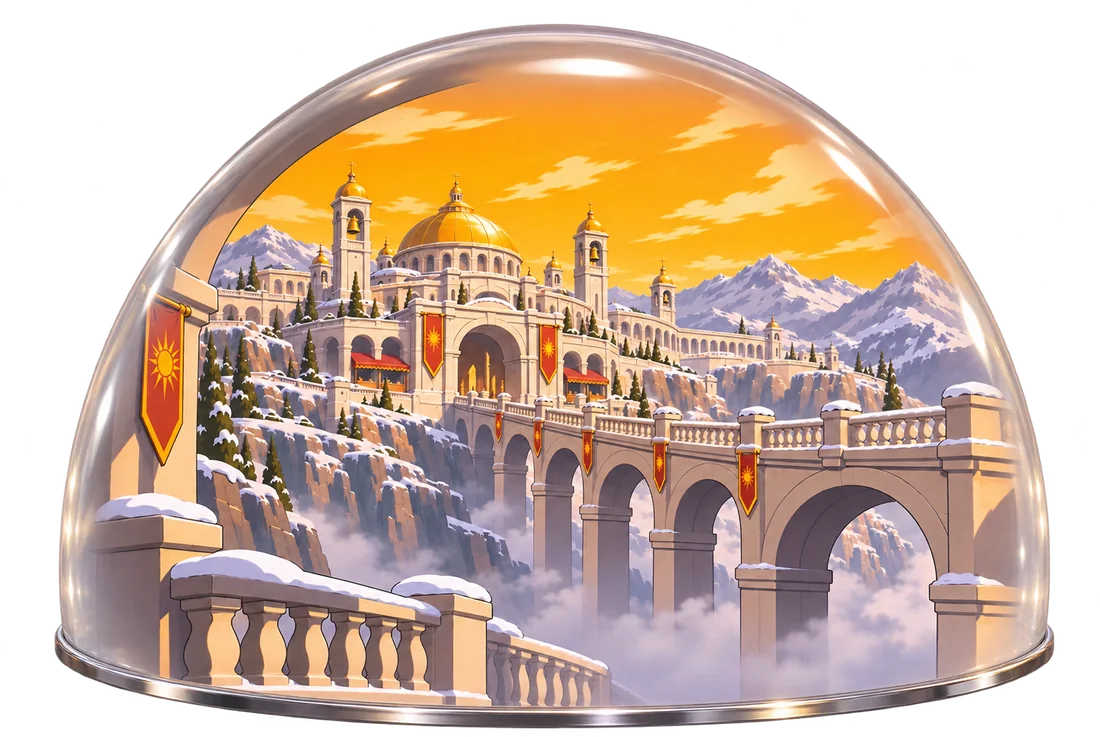
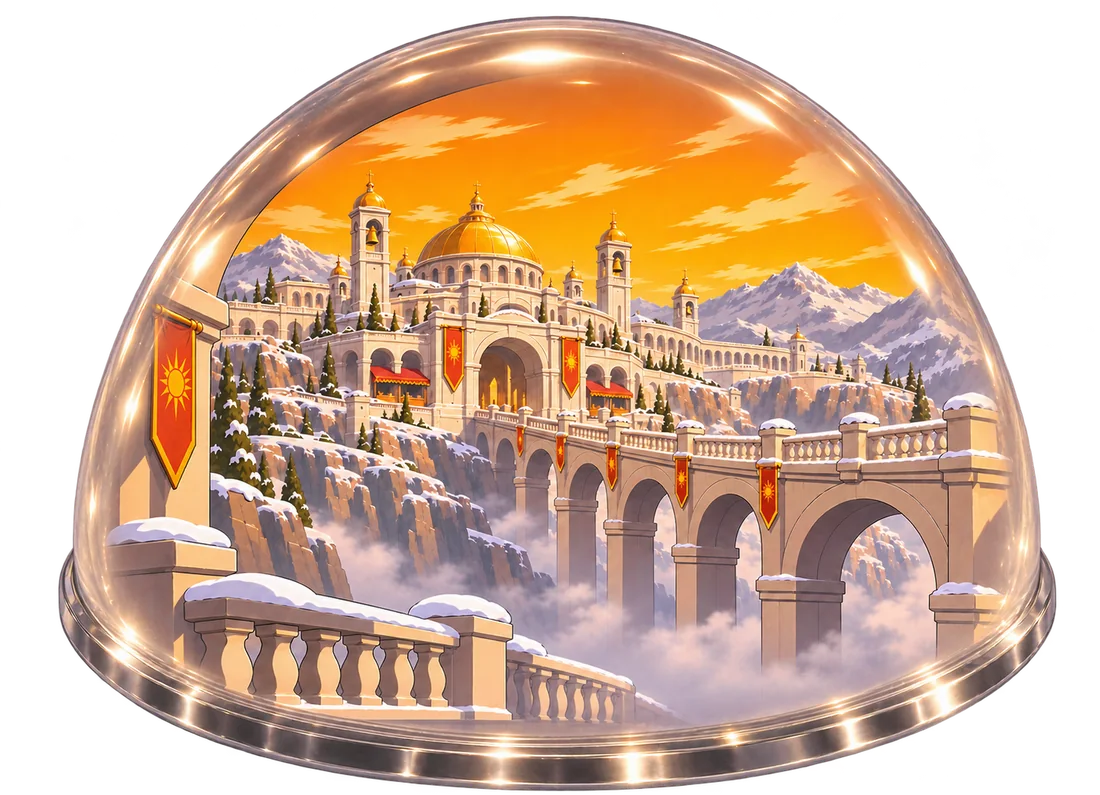
Replace the Celestara globe with the updated artwork
Claude-Session: https://claude.ai/code/session_01WUoBrF2QdkLgFKZWBUBhVY

diff --git a/site-preview/index.html b/site-preview/index.html
@@ -108,7 +108,7 @@
           <span class="go">Open Qonvergence</span>
         </a>
         <a class="pv" href="#realm-runners" data-nav>
-          <div class="pv-art pv-globes"><img src="assets/qigana-globe.webp" width="1100" height="819" alt="" loading="lazy"><img src="assets/celestara-globe.webp" width="1100" height="737" alt="" loading="lazy"></div>
+          <div class="pv-art pv-globes"><img src="assets/qigana-globe.webp" width="1100" height="819" alt="" loading="lazy"><img src="assets/celestara-globe.webp" width="1100" height="795" alt="" loading="lazy"></div>
           <h3>Realm Runners</h3>
           <p>Travelers who cross the realms. Choose Qigana or Celestara.</p>
           <span class="go">Open Realm Runners</span>
@@ -196,7 +196,7 @@
         <span class="go">Enter realm</span>
       </a>
       <a class="globe" href="#celestara" data-realm-link="celestara">
-        <img src="assets/celestara-globe.webp" width="1100" height="737" alt="Celestara: a cream palace with gold domes and red banners among snowy peaks under a golden sky, inside a glass dome">
+        <img src="assets/celestara-globe.webp" width="1100" height="795" alt="Celestara: a cream palace with gold domes and red banners among snowy peaks under a golden sky, inside a glass dome">
         <span class="globe-name">Celestara</span>
         <span class="go">Enter realm</span>
       </a>
@@ -239,7 +239,7 @@
   <div class="wrap stack">
     <a class="back" href="#realm-runners" data-nav>← Realm Runners</a>
     <div class="realm-grid">
-      <img class="realm-globe" src="assets/celestara-globe.webp" width="1100" height="737" alt="Celestara’s palace and viaduct under a golden sky, inside a glass dome">
+      <img class="realm-globe" src="assets/celestara-globe.webp" width="1100" height="795" alt="Celestara’s palace and viaduct under a golden sky, inside a glass dome">
       <div class="panel">
         <p class="eyebrow">Realm</p>
         <h1 class="display" tabindex="-1">Celestara</h1>
